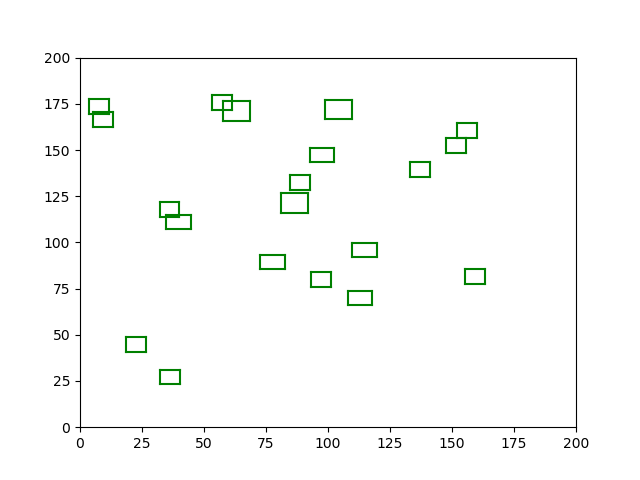
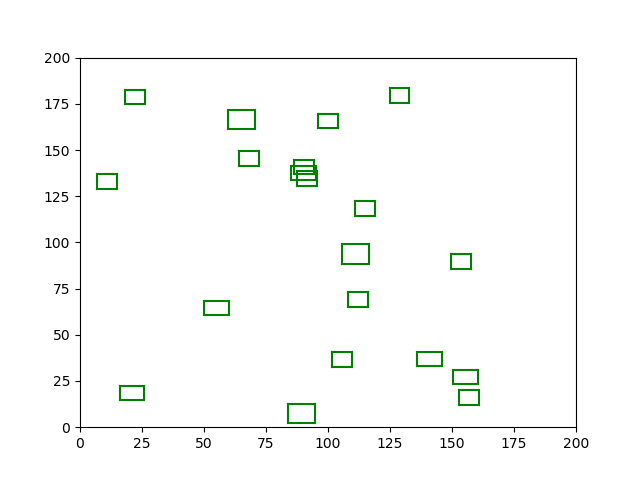
Aanpassingen overal.

diff --git a/Algorithms/depthfirst.py b/Algorithms/depthfirst.py
@@ -16,8 +16,8 @@ from Algorithms.helpers import *
 import random
 import numpy
 
-def depthfirst(ah_map, runs):
-	''' Places house random and searches for the best child. 
+def depthfirst(runs):
+	''' Places house random and searches for the best child.
 
 	Input arguments:
 	ah_map -- empty map
@@ -47,11 +47,13 @@ def depthfirst(ah_map, runs):
 				# sets house id
 				house_id = 100 * (j + 1) + i
 
-				# gets location where the most freespace is
-				loc = ah_map.calc_freespace_on_map(House(house_id, ah_map.types[j], {'x' : None, 'y' : None))
+				allowed = False
+				while allowed == False:
+					# gets location where the most freespace is
+					loc = ah_map.calc_freespace_on_map(House(house_id, ah_map.types[j], {'x' : None, 'y' : None})
 
-				# places house on location with most freespace
-				ah_map.place_house(loc, house_id, ah_map.types[j])
+					# places house on location with most freespace
+					allowed = ah_map.place_house(loc, house_id, ah_map.types[j])
 
 		# calc score of created map
 		tmpscore = ah_map.calc_score()
@@ -64,5 +66,3 @@ def depthfirst(ah_map, runs):
 	# returns created map and score
 	return ah_map
 	return score
-
-

diff --git a/Running_Scripts/random_VS_hillclimber.py b/Running_Scripts/random_VS_hillclimber.py
@@ -1,10 +1,10 @@
 
 import sys
-list_dir = sys.path[0].split('\\')
+list_dir = sys.path[0].split('/')
 string = ''
 for i in range(len(list_dir) - 1):
     string += list_dir[i]
-    string += '\\'
+    string += '/'
 
 sys.path.insert(0, string)
 
@@ -17,10 +17,10 @@ from Algorithms.best_of_random import *
 from Algorithms.hillclimber import *
 from Visuals.scatterplot import *
 
-best_random = best_of_random(MAP_20, 100)
+best_random = best_of_random(MAP_20, 10)
 print('best random:', best_random.score)
 
-best_hill = hillclimber(MAP_20, 50, 100, 2)
+best_hill = hillclimber(MAP_20, 10, 10, 2)
 print('hillclimber:', best_hill.score)
 
 scatterplot(best_random)

diff --git a/Classes/map.py b/Classes/map.py
@@ -54,16 +54,15 @@ class Map(object):
 
 		new_house = House(house_id, type_charac, loc)
 
-		if house_id == 0:
-			self.houses.append(new_house)
-		else:
-			new_house.calc_freespace(self)
+		self.houses.append(new_house)
 
-			if new_house.freespace < self.types[2]['min_free']:
+		for house in self.houses:
+			house.calc_freespace(self)
+			if house.freespace < house.min_free:
+				del self.houses[len(self.houses) - 1]
 				return False
-			else:
-				self.houses.append(new_house)
-				return True
+
+		return True
 
 
 	def calc_freespace_on_map(self, new_house):

diff --git a/Characteristics/Amstelhaege.py b/Characteristics/Amstelhaege.py
@@ -25,8 +25,8 @@ Distr houses is the distribution of the different types of houses listed
 above [ONE_FAMILY, BUNGALOW, MANSION]
 '''
 
-MAP = {'width' : 180, 'height': 160, 'water_prev' : 0.20,
-		  'nr_houses' : [20, 40, 60], 'distr_houses' : [0.60, 0.25, 0.15]}
+# MAP = {'width' : 180, 'height': 160, 'water_prev' : 0.20,
+# 		  'nr_houses' : [20, 40, 60], 'distr_houses' : [0.60, 0.25, 0.15]}
 
 MAP_20 = {'width' : 180, 'height': 160, 'water_prev' : 0.20,
 		  'nr_houses' : 20, 'distr_houses' : [0.60, 0.25, 0.15],

diff --git a/Running_Scripts/depthfirstrun.py b/Running_Scripts/depthfirstrun.py
@@ -8,7 +8,7 @@ for i in range(len(list_dir) - 1):
 
 sys.path.insert(0, string)
 
-# from Classes.house import *
+from Classes.house import *
 from Classes.map import *
 from Classes.water import *
 from Characteristics.Amstelhaege import *
@@ -19,7 +19,7 @@ from Algorithms.depthfirst import *
 from Visuals.scatterplot import *
 
 
-best_depthfirst = depthfirst(ah_map, 1)
+best_depthfirst = depthfirst(1)
 print('best depthfirst:', best_depthfirst.score)
 
 # best_hill = hillclimber(MAP_20, 50, 100, 2)

diff --git a/Classes/house.py b/Classes/house.py
@@ -145,5 +145,6 @@ class House(object):
 						tmpfreespace.append(numpy.amin(distancelist))
 				# take the minimum freespace
 				freespace = numpy.amin(tmpfreespace)
+				print(freespace)
 		# set freespace of class
-		self.freespace = freespace
+		self.freespace = 7

diff --git a/Visuals/scatterplot.py b/Visuals/scatterplot.py
@@ -33,7 +33,7 @@ def scatterplot(ah_map):
 
     data = []
 
-    for i in range(MAP['nr_houses'][0]):
+    for i in range(ah_map.nr_houses):
 
 
         x = ah_map.houses[i].location['x']
